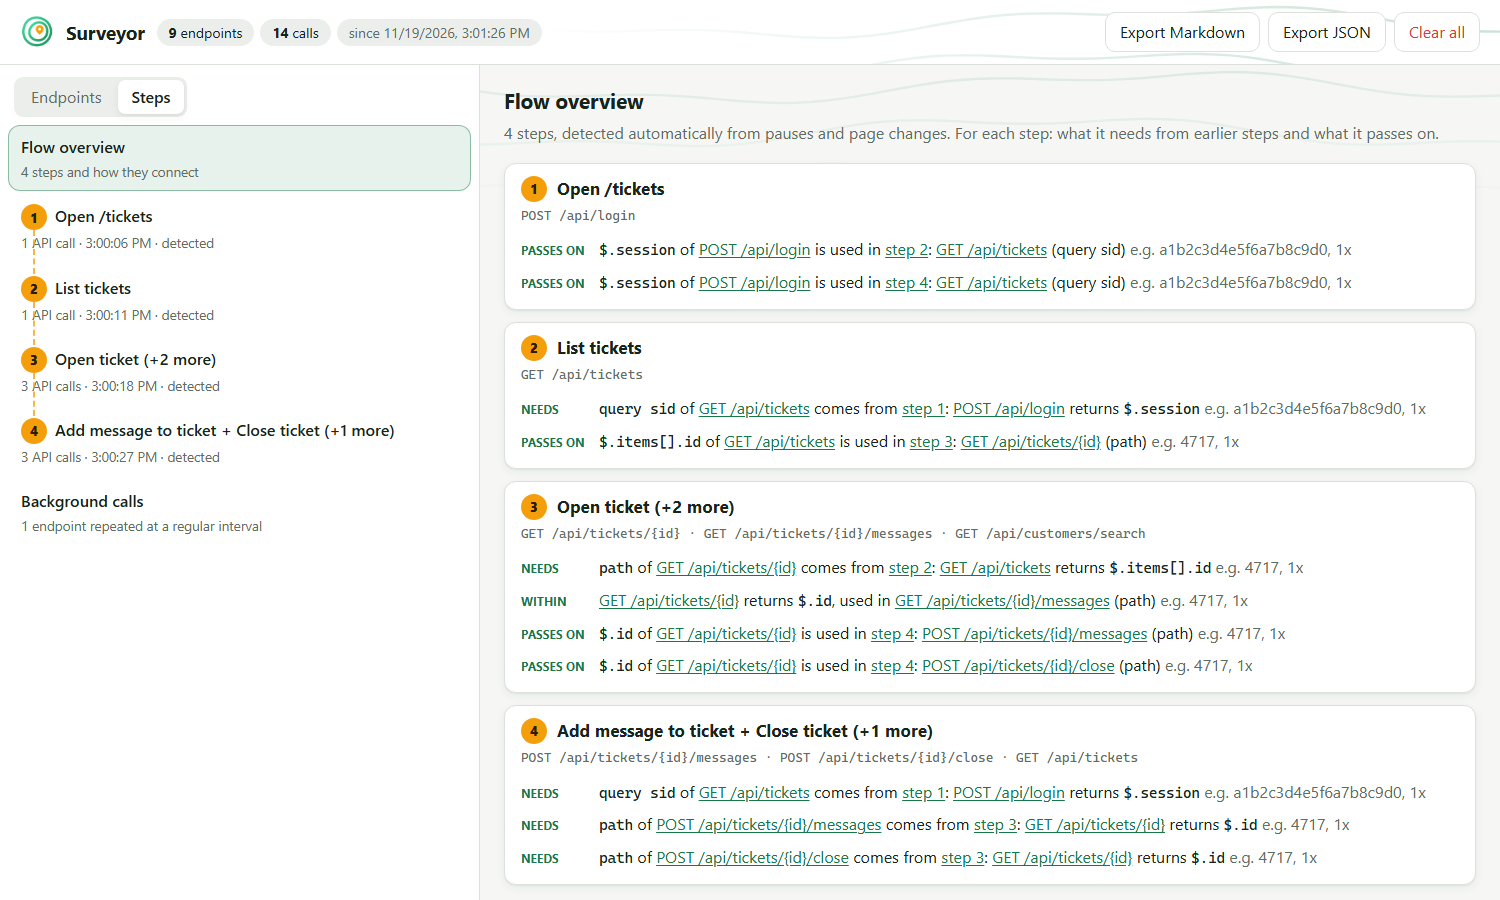
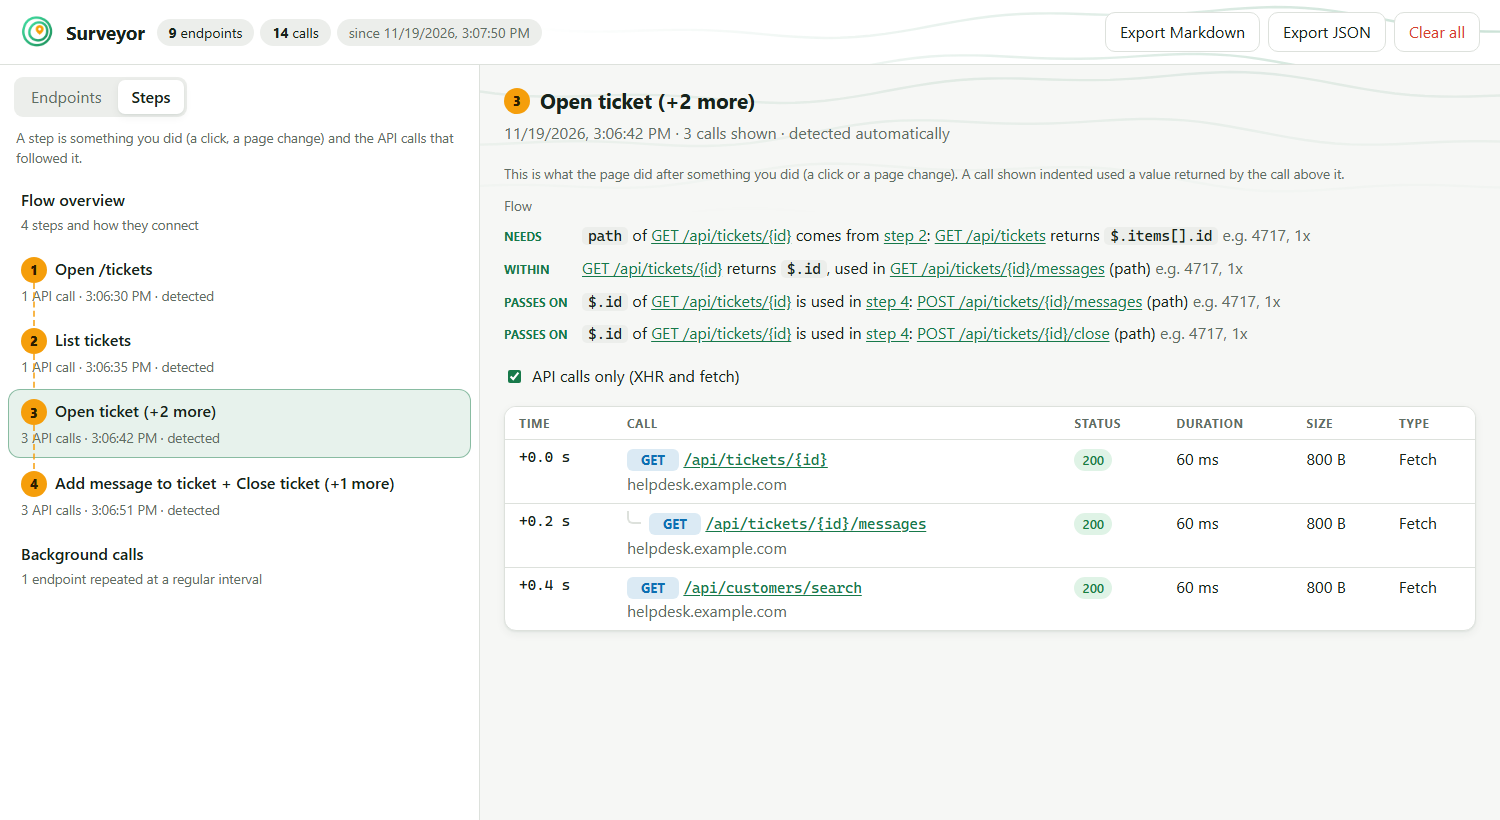
Nest the calls of a step by which call used a value from which; explain what a step is in the screen and the README

diff --git a/viewer.js b/viewer.js
@@ -1,6 +1,6 @@
 // Full page view of the recording: search, filter, sort, per-endpoint detail and export.
 import { createStore, flatten, formatBytes, toMarkdown } from './recorder.mjs';
-import { describeFlow, detectPolling, endpointLabel, getSteps, isApiCall } from './flow.mjs';
+import { describeFlow, detectPolling, endpointLabel, getSteps, isApiCall, nestCalls } from './flow.mjs';
 
 const $ = (id) => document.getElementById(id);
 const MAX_ROWS = 1000;
@@ -179,11 +179,12 @@ function renderStepList() {
   const item = (id, extraClass, top, meta) => h('div', { class: `item${id === state.step ? ' selected' : ''}${extraClass}`, onclick: () => { state.step = id; render(); } },
     h('div', { class: 'top' }, ...top), h('div', { class: 'meta' }, meta));
 
+  const note = h('div', { class: 'stepnote muted' }, 'A step is something you did (a click, a page change) and the API calls that followed it.');
   const overview = groups.length ? item('overview', '', [h('span', { class: 'path' }, 'Flow overview')], `${plural(groups.length, 'step')} and how they connect`) : null;
   const steps = groups.map((g, i) => item(g.index, i < groups.length - 1 ? ' route' : '', [stepMarker(g), h('span', { class: 'path' }, g.label)],
     `${plural(g.calls.filter(isApiCall).length, 'API call')}${g.at ? ` · ${new Date(g.at).toLocaleTimeString()}` : ''}${g.auto ? ' · detected' : ''}`));
   const background = polling.length ? item('background', '', [h('span', { class: 'path' }, 'Background calls')], `${plural(polling.length, 'endpoint')} repeated at a regular interval`) : null;
-  list.replaceChildren(...[toggle, overview, ...steps, background].filter(Boolean));
+  list.replaceChildren(...[toggle, note, overview, ...steps, background].filter(Boolean));
 }
 
 function renderOverview(right, groups) {
@@ -229,18 +230,21 @@ function renderStepDetail() {
   const calls = g.calls.filter((c) => (!state.apiOnly || isApiCall(c)) && store.endpoints[c.key]);
   const t0 = g.at ? Date.parse(g.at) : (g.calls[0]?.at ?? 0);
   const rows = flowRows(flow);
+  const tree = nestCalls(store, calls);
+  const nested = tree.some((t) => t.depth > 0);
   right.replaceChildren(h('div', { class: 'detail' },
     h('div', { class: 'title' }, stepMarker(g), h('h2', {}, g.label)),
     h('div', { class: 'sub muted' }, `${g.at ? `${time(g.at)} · ` : ''}${plural(calls.length, 'call')} shown${g.auto ? ' · detected automatically' : ''}`),
+    h('div', { class: 'explain muted' }, `This is what the page did after something you did (a click or a page change).${nested ? ' A call shown indented used a value returned by the call above it.' : ''}`),
     rows.length ? h('div', { class: 'flow' }, h('div', { class: 'label' }, 'Flow'), rows) : null,
     h('div', { class: 'tools' }, h('label', { class: 'check' }, h('input', { type: 'checkbox', checked: state.apiOnly, onchange: (e) => { state.apiOnly = e.target.checked; render(); } }), ' API calls only (XHR and fetch)')),
     h('div', { class: 'panel' }, h('div', { class: 'tablewrap' }, h('table', {},
       h('thead', {}, h('tr', {}, ['Time', 'Call', 'Status', 'Duration', 'Size', 'Type'].map((t) => h('th', {}, t)))),
-      h('tbody', {}, calls.map((c) => {
+      h('tbody', {}, tree.map(({ call: c, depth }) => {
         const ep = store.endpoints[c.key];
         return h('tr', {},
           h('td', { class: 'mono' }, `+${Math.max(0, ((c.s ?? c.at) - t0) / 1000).toFixed(1)} s`),
-          h('td', {}, h('span', { class: `mpill ${ep.method}` }, ep.method), ' ', h('span', { class: 'link mono', onclick: () => jumpTo(c.key) }, ep.path + (ep.rpc ? ` ${ep.rpc}` : '')), h('div', { class: 'muted' }, ep.host)),
+          h('td', {}, depth ? h('span', { class: 'nest', style: `margin-left:${(depth - 1) * 20}px` }) : null, h('span', { class: `mpill ${ep.method}` }, ep.method), ' ', h('span', { class: 'link mono', onclick: () => jumpTo(c.key) }, ep.path + (ep.rpc ? ` ${ep.rpc}` : '')), h('div', { class: 'muted' }, ep.host)),
           h('td', {}, h('span', { class: `pill ${c.status >= 400 ? 'err' : 'ok'}` }, String(c.status))),
           h('td', {}, `${c.timeMs} ms`),
           h('td', {}, c.size ? formatBytes(c.size) : '-'),

diff --git a/viewer.css b/viewer.css
@@ -186,3 +186,8 @@ header::before {
   -webkit-mask-image: linear-gradient(to bottom, #000, transparent); mask-image: linear-gradient(to bottom, #000, transparent);
   pointer-events: none;
 }
+
+/* Nested calls and the short explanation of a step */
+.nest { display: inline-block; width: 14px; height: 13px; margin-right: 8px; vertical-align: top; border-left: 2px solid var(--line); border-bottom: 2px solid var(--line); border-radius: 0 0 0 6px; }
+.stepnote { padding: 2px 8px 10px; font-size: 13.5px; }
+.explain { margin: 0 0 10px; font-size: 13.5px; }

diff --git a/README.md b/README.md
@@ -101,17 +101,20 @@ the field and the value, for example `RECEIVED $.items[].customer.name = Fleur M
 
 ### Follow what an action triggers
 
-Surveyor groups the calls into steps by itself, without you doing anything. A pause in the API traffic or a page
-navigation (also route changes in single page apps) starts a new step. Each step gets a name from what its calls do, for
-example "Open ticket", "Add message to ticket + Close ticket" or "Open /tickets". Calls that repeat at a regular interval
-(polling) are left out and listed separately under **Background calls**.
+**A step is something you did in the interface, plus the API calls that followed it.** It is not an internal step of the
+API. The browser does not tell Surveyor when you click, so it works out your actions itself, without you doing
+anything: a pause in the API traffic or a page navigation (also route changes in single page apps) starts a new step.
+Each step gets a name from what its calls do, for example "Open ticket", "Add message to ticket + Close ticket" or
+"Open /tickets". Calls that repeat at a regular interval (polling) are left out and listed separately under
+**Background calls**.
 
-Open a step to see its calls in order, with time since the step, status, duration and size. Click a call to jump to its
-endpoint. Want your own names? Type what you are about to do and press **Mark step** in the popup. Your steps are then
+Open a step to see its calls in order, with time since the step, status, duration and size. Inside a step the calls are
+nested: a call shown indented used a value returned by the call above it, so you can see which call led to which. Click
+a call to jump to its endpoint. Want your own names? Type what you are about to do and press **Mark step** in the popup. Your steps are then
 shown instead, and you can switch between **Marked by you** and **Detected**.
 
 <p align="center">
-  <img src="docs/steps.png" alt="Steps view: the calls made after each step you marked" width="900">
+  <img src="docs/steps.png" alt="A step with its flow and its calls, nested by which call used a value from which" width="900">
 </p>
 
 ### See how calls depend on each other
